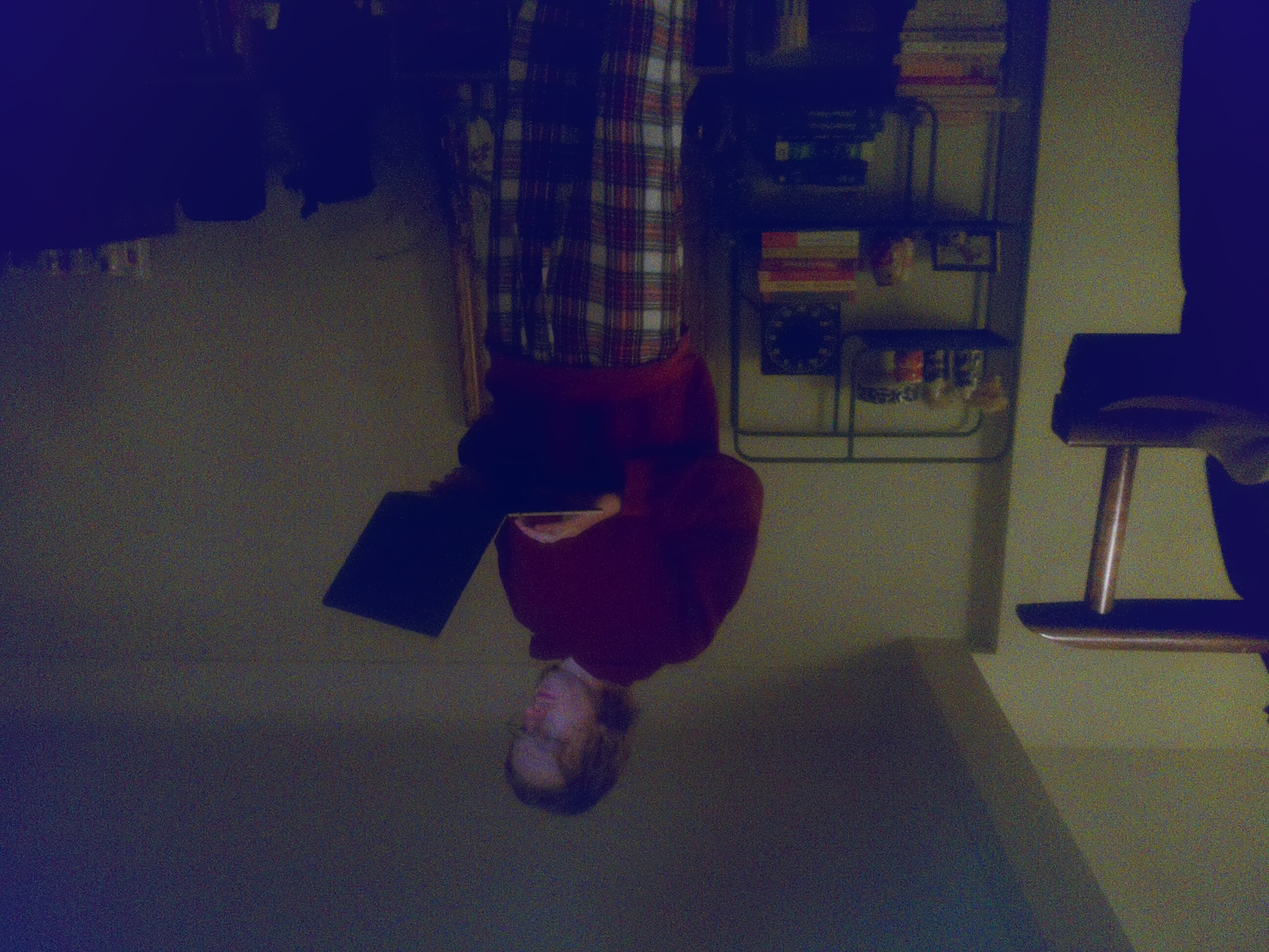
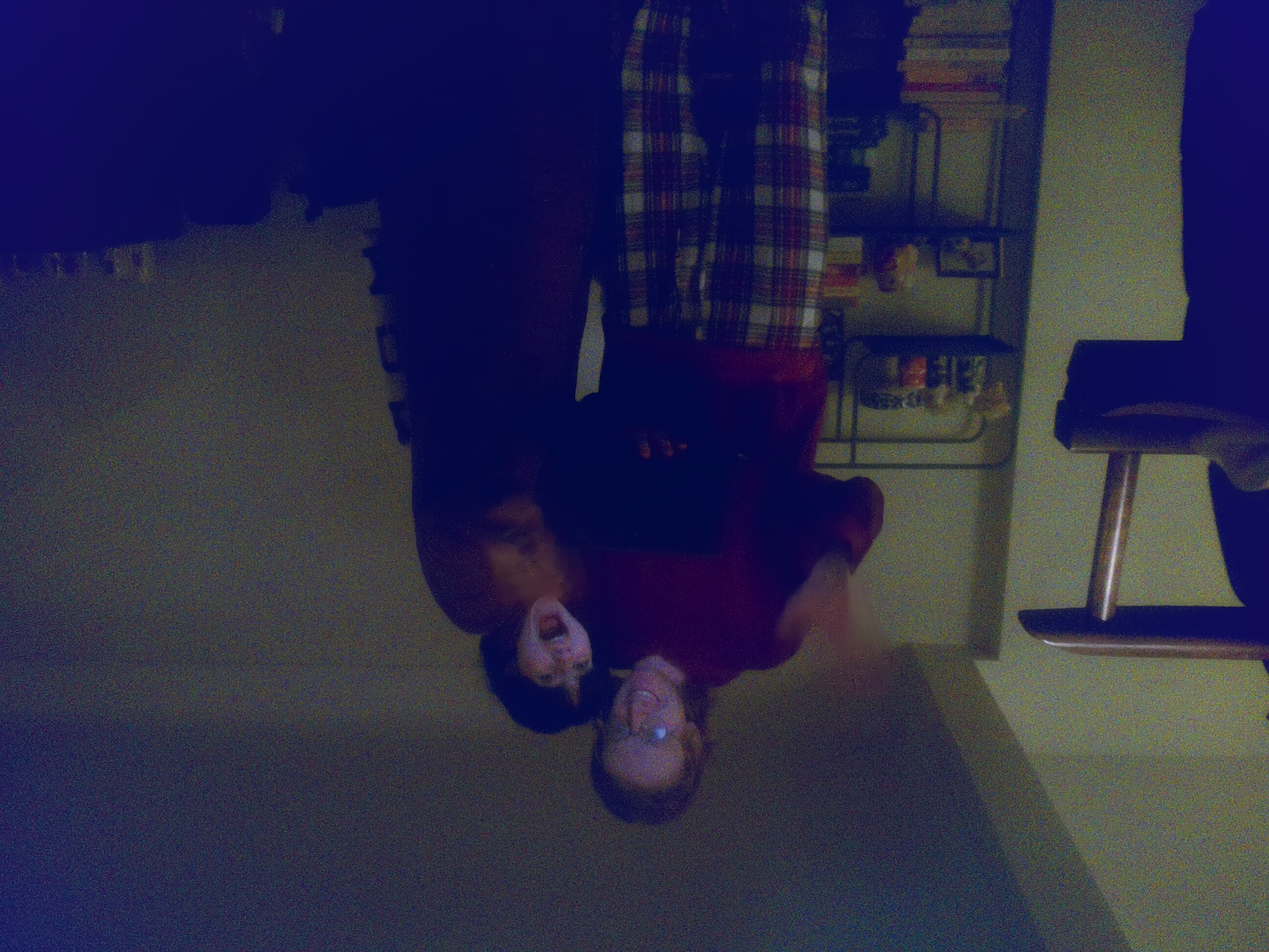
Script to record temperature and humidity, using DHT11 sensor, in GPIO14

diff --git a/scripts/record_temperature_humidity.py b/scripts/record_temperature_humidity.py
@@ -1,0 +1,15 @@
+#!/usr/bin/env python3
+
+import adafruit_dht
+import board
+
+# If your sensor is on GPIO 4:
+dhtDevice = adafruit_dht.DHT11(board.D14)
+
+try:
+    temp_c = dhtDevice.temperature
+    humidity = dhtDevice.humidity
+    print(f"Temp: {temp_c}C, Humidity: {humidity}%")
+except RuntimeError as error:
+    # Errors are common with DHT sensors, just keep trying
+    print(error.args[0])
